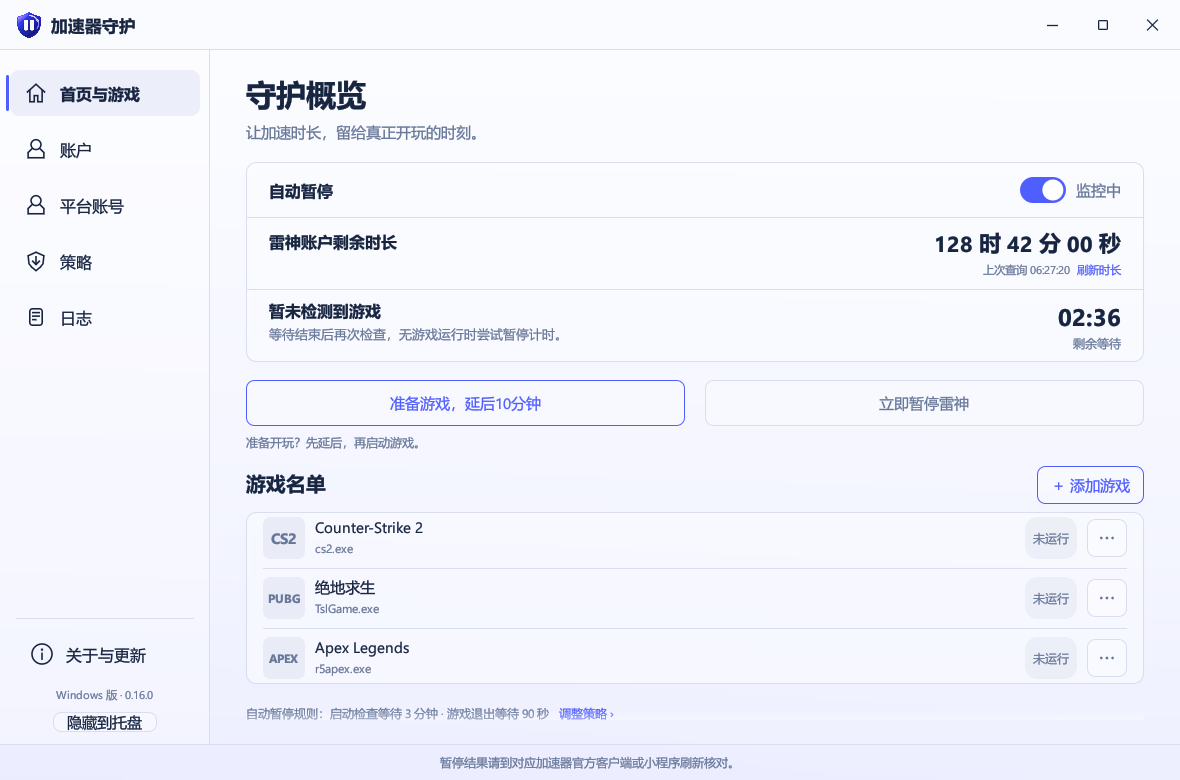
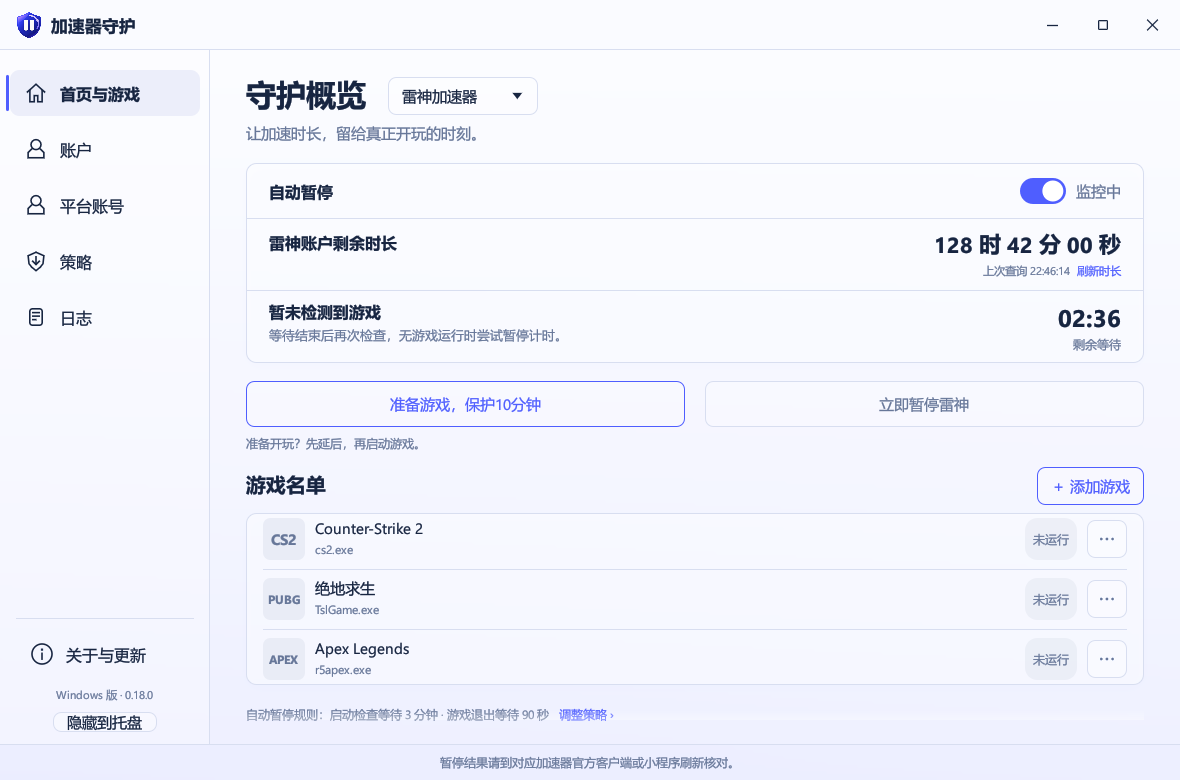
release: prepare client 0.19.0 and server 0.6.0

diff --git a/website/index.html b/website/index.html
@@ -52,7 +52,7 @@
       <div class="hero-copy">
         <h1 id="hero-title">让加速时长，<br><span>留给真正开玩的时刻。</span></h1>
         <p class="hero-description">加速器守护（原雷神守护），Windows 开源计时守护工具。<br class="desktop-break">游戏退出后按规则暂停，重启后也能检查闲置计时。</p>
-        <p>支持雷神与外星仔。游戏退出后自动暂停闲置计时，也可单独授权服务器，在设备失联时提供暂停兜底。</p>
+        <p>下拉选择雷神或外星仔，同一时间只守护当前加速器。游戏退出后自动暂停闲置计时，也可单独授权服务器失联保护。</p>
         <div class="hero-actions">
           <a class="button button-primary" href="/download/installer" data-edition="installer" target="_blank" rel="noopener">下载安装版</a>
           <a class="button button-secondary" href="/download/portable" data-edition="portable" target="_blank" rel="noopener">下载绿色版</a>

diff --git a/docs/外星仔接入说明.md b/docs/外星仔接入说明.md
@@ -1,27 +1,27 @@
-# 外星仔接入说明（0.17.0）
+# 外星仔接入说明（0.19.0）
 
 状态：0.16.1 起提供本机功能；用户于 2026-09-23 反馈已测试可用，未逐项提供测试场景。0.17.0 / 后台 0.4.0 新增服务器适配，真实服务器授权与失联暂停尚待验收。默认关闭，保留试验性标记。
 
 ## 使用步骤
 
-1. 在“加速器账户”选择“外星仔加速器”，使用本人手机号、密码登录，或导入本人已有 Authorization。密码不保存，令牌使用 Windows DPAPI 加密。
+1. 在首页“守护概览”下拉选择“外星仔加速器”，进入“账户”，使用本人手机号、密码登录，或导入本人已有 Authorization。密码不保存，令牌使用 Windows DPAPI 加密。
 2. 在外星仔官方客户端手动暂停、刷新，确认计时已经暂停。
 3. 返回守护工具点击“我已在官方暂停，读取并校准”。这一步只查询，不发送暂停或恢复请求；未返回有效暂停状态时无法开启。
 4. 勾选“启用外星仔自动暂停”。使用现有游戏名单、启动宽限期、退出宽限期和自动暂停总开关。
 5. 暂停动作前再次检查游戏与最新配置，暂停后重新查询官方状态；未确认即报告失败，进入冷却期，不显示成功。
 
-雷神和外星仔可以分别登录、同时开启。外星仔可单独退出或禁用。托盘“立即暂停”作用于已配置的两个账号；主页原有雷神暂停按钮仍作用于雷神，外星仔账户页有独立暂停按钮。准备游戏延后会保护相应启动检查，不启动加速、不恢复计时。
+两款可以分别保存登录，只有首页当前选择参与本机守护。首页、账户、策略、日志、托盘和关机暂停使用同一个选择；名单与暂停规则分别保存。另一款保留凭据但不执行本机暂停。准备游戏只作用于当前对象，不启动加速、不恢复计时。
 
 首次校准来自用户明确确认的官方状态，不内置猜测的暂停值。校准不会自动启用守护；重新登录清除校准。PC 免费时长与可暂停时长分别显示，具体免费时长到期规则由官方决定，不能承诺暂停免费时长的有效期。
 
 ## 范围与兼容
 
 - 本机：游戏退出暂停、启动补查、手动暂停、正常关机尽力暂停。
-- 平台服务器可分别授权雷神和外星仔，互不覆盖。外星仔首次授权前须先在官方客户端暂停、读取校准，然后到“平台账号”明确同意上传凭据并开启。未授权时不上传外星仔令牌。
+- 后台 0.6.0 配合客户端 0.19.0，只接受本机当前对象的授权，切换确认时撤销本机旧对象授权；其他电脑和独立网吧模式有单独边界，见 [远程保护说明](REMOTE_PROTECTION.md)。外星仔首次授权前须先在官方客户端暂停、读取校准，然后到“平台账号”明确同意上传凭据并开启。未授权时不上传外星仔令牌。
 - 授权包含令牌、随机设备标识和校准值，不包含密码。服务器通过官方 `/account/v1/my_profile` 验证账号身份，通过 PC 时长接口确认校准状态；缺少身份、未知状态或校准不符均拒绝授权。
 - 同一外星仔账号任一受保护设备在线则不暂停；全部持续失联 120 秒且准备期结束才尝试。请求前复核、请求后查询确认，网络或官方接口变化可能导致失败。
 - 退出/重新登录/重新校准外星仔会请求关闭其远程授权；断网时关闭未确认仍可能暂停。网页关闭按加速器区分，撤销整台设备会关闭两个授权。
-- 回退到旧客户端后，服务端收到不支持外星仔的旧格式心跳时撤销该设备外星仔授权，保留雷神授权。
+- 设备启用单一选择协议后，旧客户端缺少选择版本的心跳会被拒绝，不支持直接降级继续上报。未启用该协议的历史设备仍走原兼容规则。
 - 没有外星仔账号或没有完成校准时，不发送外星仔账号请求。
 - 原配置目录、安装 AppId、EXE 和发布资产名、GitHub/Gitee 仓库、更新来源规则保持兼容；升级移除旧名称快捷方式并建立新名称。
 - 配置中的外星仔数据位于 `[etalien]`；没有该段的旧版配置按关闭处理。

diff --git a/docs/SERVER_DEPLOYMENT.md b/docs/SERVER_DEPLOYMENT.md
@@ -1,6 +1,6 @@
 # 服务端自行部署：Docker 与 Linux 可执行文件
 
-服务端源码已公开在 [GitHub server/](https://github.com/CMMUU/leigod-guard/tree/main/server)，部署配置在 [deploy/server/](https://github.com/CMMUU/leigod-guard/tree/main/deploy/server)。本文适用于含自部署支持的后台 0.3.2；上海现有部署无需迁移，15 秒心跳、120 秒失联规则不变。
+服务端源码已公开在 [GitHub server/](https://github.com/CMMUU/leigod-guard/tree/main/server)，部署配置在 [deploy/server/](https://github.com/CMMUU/leigod-guard/tree/main/deploy/server)。本文适用于后台 0.6.0；支持客户端 0.19.0 的单一守护选择，15 秒心跳、120 秒失联规则不变。已绑定设备应先升级后台，再升级客户端。
 
 ## 先选择运行方式
 
@@ -13,7 +13,7 @@
 
 以下安装命令使用 **Linux Bash**；创建系统目录、修改密钥所有权和安装 systemd 服务的步骤按 root 执行。Docker Engine 与 Compose 插件按 [Docker 官方安装说明](https://docs.docker.com/engine/install/ubuntu/) 安装。准备 Git、Python 3 和 curl。首次从源码编译需要联网和较多临时内存/磁盘；小服务器可在构建机生成镜像或下载 CI 成品。
 
-**客户端连接限制：** 现有 Windows 正式版 v0.15.1 固定连接维护者的上海后台。自建后台可直接通过网页使用，但现有客户端不会自动改连你的服务器；见文末“Windows 客户端连接自建后台”。部署自己的服务无需、也不应复制维护者的数据库、密钥或 Resend 账号。
+**客户端连接限制：** 现有 Windows 正式版 v0.19.0 固定连接维护者的上海后台。自建后台可直接通过网页使用，但现有客户端不会自动改连你的服务器；见文末“Windows 客户端连接自建后台”。部署自己的服务无需、也不应复制维护者的数据库、密钥或 Resend 账号。
 
 ## 方式一：Docker Compose
 
@@ -256,6 +256,14 @@ docker compose --env-file server.env exec -T postgres pg_restore --list < "$guar
 | 能登录但不会远程暂停 | 服务器执行开关、设备授权、首次心跳、凭据有效性、观察期及服务异常状态 |
 
 CI 验证范围包括：构建 Dockerfile、真实 Compose 网络、PostgreSQL 迁移、静态网页、非 root 应用、私有密钥挂载、管理员登录、容器重建后的数据保留、数据库导出/隔离恢复，以及打包后的 musl 可执行文件启动。CI 使用一次性数据，没有验证你的域名证书签发、邮箱收信或真实雷神暂停；这些需要在你自己的环境验收。
+
+## 0.6.0：单一守护选择
+
+保留原 PostgreSQL 数据、环境文件与远程加密密钥，按上文备份后升级。新程序自动执行 `0006_guard_selection.sql`；无需 Redis、新端口或新增环境变量。Docker 仍使用同一 Compose 项目和数据卷，可执行文件仍按 release 目录切换。
+
+升级顺序为后台 0.6.0 → 本地与公网 `/api/health` 确认版本 → 客户端 0.19.0。客户端首次连接会同步当前选择，确认前暂缓本机动作；服务器保存选择版本，只接受当前对象的授权和匹配心跳。未启用协议的旧设备保持兼容；启用后旧客户端缺少选择版本会被拒绝，不能直接降级继续上报。
+
+切换不会替用户开启新授权，不撤销其他电脑。旧账号的独立网吧模式仍开启时，用户必须先在网页关闭；已发送请求需要等待结束。故障时保留数据库和当前密钥，采用包含全部迁移的修复版本，不删除迁移记录或用旧备份覆盖新数据。
 
 ## 0.5.0：云端网吧模式
 

diff --git a/docs/REMOTE_PROTECTION.md b/docs/REMOTE_PROTECTION.md
@@ -1,8 +1,8 @@
 # 服务器失联保护运维与验证
 
-适用：客户端 0.17.0、后台 0.4.0。完整分析及最终验收存于 [项目文档仓库](https://github.com/CMMUU/project-docs/tree/main/leigod-guard)。历史规划见 [REMOTE_GUARD_PLAN.md](REMOTE_GUARD_PLAN.md)。
+适用：客户端 0.19.0、后台 0.6.0。完整分析及最终验收存于 [项目文档仓库](https://github.com/CMMUU/project-docs/tree/main/leigod-guard)。历史规划见 [REMOTE_GUARD_PLAN.md](REMOTE_GUARD_PLAN.md)。
 
-开发分支新增单一守护选择：客户端首页下拉框为本机唯一守护对象。设备接口 `GET/POST /api/device/guard` 保存选择及版本，首次启用撤销本机另一款授权；授权与心跳均校验选择，旧客户端心跳不可重新激活旧对象。迁移 `0006_guard_selection.sql` 保留旧设备的兼容模式，旧客户端未主动启用此协议前不改变已有授权。
+0.19.0 新增单一守护选择：客户端首页下拉框为本机唯一守护对象。设备接口 `GET/POST /api/device/guard` 保存选择及版本，首次启用撤销本机另一款授权；授权与心跳均校验选择，旧客户端心跳不可重新激活旧对象。迁移 `0006_guard_selection.sql` 保留旧设备的兼容模式，旧客户端未主动启用此协议前不改变已有授权。
 
 已绑定设备启动或切换时先同步服务器；未确认前本机动作暂缓，继续尝试心跳及同步。切换不上传新凭据、不隐式暂停或恢复。已发送的旧请求需要等待完成；失败或断网保存待切换目标，下次启动继续。旧账号网吧模式必须由用户在网页单独关闭；其他设备授权不撤销，并在仍有其他设备守护时给出提示。请先升级后台再分发此客户端。
 
@@ -46,7 +46,7 @@ flowchart TD
 
 ## 外星仔与双加速器
 
-同一物理设备可分别授权雷神和外星仔，按 `(device_id, provider)` 存储授权和独立版本号。账号身份摘要使用不同命名空间，任务仍按官方账号聚合。手动关闭只影响所选加速器；设备撤销、重新绑定和用户停用原子撤销两者。
+授权按 `(device_id, provider)` 存储独立版本号。0.19.0 仅允许本机当前选择的加速器授权，切换时撤销旧对象；未启用选择协议的旧客户端继续兼容双授权存储。账号身份摘要使用不同命名空间，任务仍按官方账号聚合。手动关闭只影响所选加速器；设备撤销、重新绑定和用户停用原子撤销两者。
 
 外星仔使用固定 `https://api.et-api.com`：GET `/account/v1/my_profile` 取得官方 `user_id`，POST `/v2/account/remain/duration` 查询 PC 状态，POST `/v2/account/update/pause/state` 请求校准的暂停值。身份字段的公开协议线索与验证限制见[外星仔接入说明](外星仔接入说明.md)。不使用客户端传来的手机号、账号 ID 或 token 哈希合并设备。
 

diff --git a/website/overview.md b/website/overview.md
@@ -19,17 +19,21 @@ Accelerator Guard is an independent, MIT-licensed Windows companion for the Leig
 - 已有用户在应用内「关于与更新 → 检查更新 → 下载并自动更新」升级。自动模式比较可用的新版本，同版本优先 Gitee，GitHub 备用；也可明确选择单一来源。
 - 下载页可选择仅 Gitee 或仅 GitHub；指定单源时不查询另一平台。下载交给浏览器，传输失败后可手动选择同版本、同文件大小及 SHA-256 的备用入口；网站不自动安装软件。
 
+## 选择守护对象
+
+在首页“守护概览”下拉选择雷神或外星仔，默认雷神并记住选择；同一时间只守护当前对象。账户、名单、策略、日志和托盘同步，另一款保留配置。选择本身不暂停或恢复加速，也不自动开启服务器保护。自部署请先升级后台 0.6.0 再安装客户端 0.19.0。
+
 ## 三种暂停场景
 
 1. 游戏退出：先检测到名单游戏运行，全部退出后默认连续等待 90 秒，再复查并尝试暂停；游戏重新运行会取消倒计时。
 2. 本次启动检查：检查有效时，默认连续等待 3 分钟；仍无名单游戏运行则尝试暂停。
-3. 准备游戏：尚未结束的启动检查可以延后，保护到至少点击后 10 分钟；不能重启已经结束的启动检查。
+3. 准备游戏：点击后保护新一轮启动或重启 10 分钟；PUBG 启动链也提供有限自动保护，游戏出现后转入正常守护。
 
 这些是独立场景，等待时间不会相加。需要有效游戏名单、已开启的策略、登录与网络。异常断电后本机工具无法继续工作。已单独授权的服务器保护在同一账号全部受保护设备失联 120 秒且准备期结束后尝试暂停；接口或网络异常仍可能失败，无法追回已消耗时长。
 
 ## 服务器失联保护
 
-两款加速器分别授权，默认关闭。外星仔首次授权前需在官方客户端暂停并校准；服务器验证账号身份，收到当前授权版本的心跳后才生效。同一账号任一受保护设备在线则不暂停。关闭确认前及请求已发送后仍有执行边界，详见仓库使用与隐私说明。外星仔本机已有用户可用反馈，新增服务器适配仍需真实账号验收。
+当前加速器单独授权，默认关闭。切换确认时撤销本机旧对象授权；其他电脑授权保留，旧账号独立网吧模式须先在网页关闭。外星仔首次授权前需在官方客户端暂停并校准；服务器验证账号身份，收到当前授权版本的心跳后才生效。同一账号任一受保护设备在线则不暂停。关闭确认前及请求已发送后仍有执行边界，详见仓库使用与隐私说明。外星仔本机已有用户可用反馈，新增服务器适配仍需真实账号验收。
 
 ## 剩余时长
 

diff --git a/CHANGELOG.md b/CHANGELOG.md
@@ -1,5 +1,14 @@
 # 版本记录
 
+## 0.19.0 — 2026-09-27
+
+- 首页移除顶部外星仔附加栏，在“守护概览”增加加速器下拉框；缺省雷神，重启记住选择。
+- 同一时间只守护当前加速器：首页、账号、游戏名单、策略、日志、托盘和关机暂停同步；另一款保留凭据与设置。两款分别保存名单和暂停规则，旧共用配置首次迁移为两份，应用级设置继续共用。
+- 切换等待已发本机请求结束、取消旧倒计时并重新检测；快速切回也拒绝旧决定。外星仔首页显示其独立状态、可暂停时长及免费时长。
+- 配套后台 0.6.0：设备选择版本事务撤销本机旧对象授权，阻止旧心跳与遗留任务；失败保留待切换目标并重试。选择不自动上传凭据或授权新对象；其他电脑授权保留，旧账号独立网吧模式需在网页关闭后继续。
+- 自部署须先升级后台 0.6.0，再更新客户端。原心跳间隔、失联阈值和网吧时长设置不变；已启用选择协议的设备不支持直接降级为旧客户端。
+- 隔离 Windows 功能、界面、安装更新及服务端模拟回归已覆盖；真实游戏与真实账号暂停仍由用户更新后验收，不在用户游戏电脑上自动安装。
+
 ## 0.18.0 — 2026-09-25
 
 - 修复 PUBG 启动、快速重启阶段被误判为无游戏：独立识别启动链，默认给予一轮 600 秒保护，可在策略中调整；主进程运行后转入正常守护，旧辅助进程残留不无限续期。
